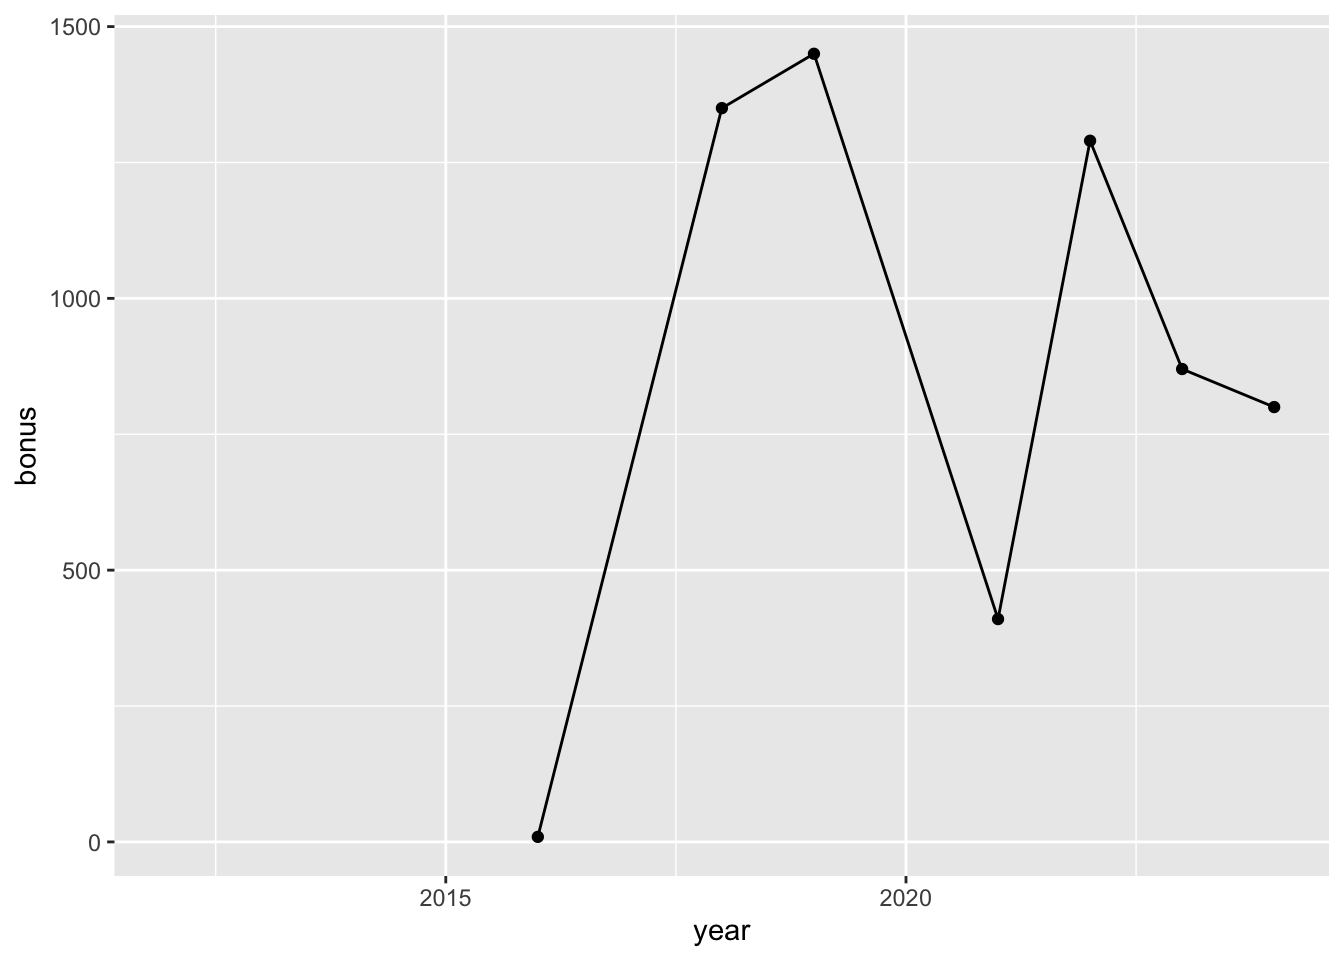
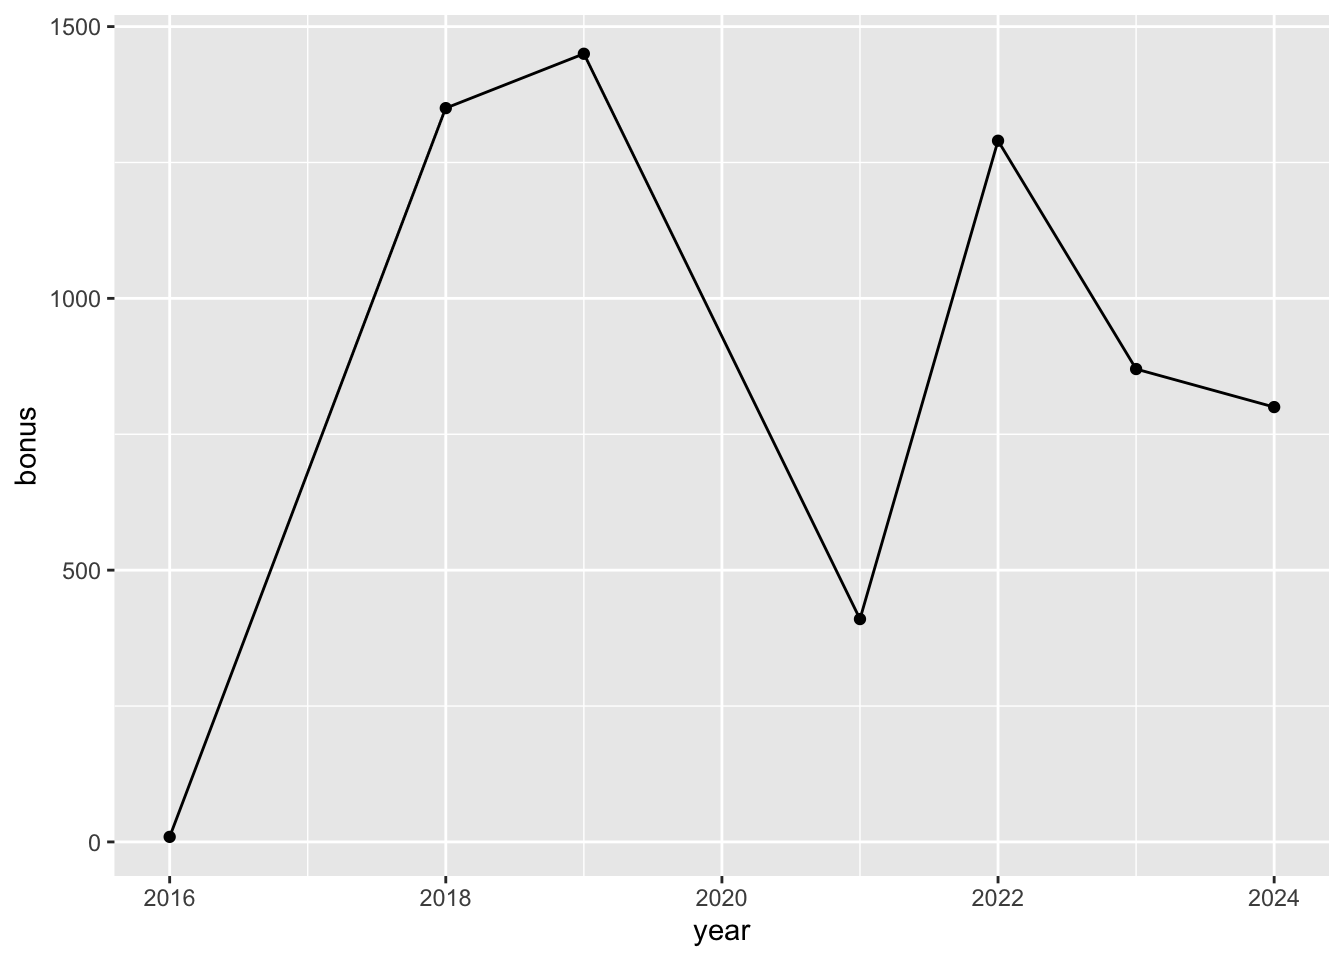
Fix bonus points figure.

diff --git a/docs/results.html b/docs/results.html
@@ -469,19 +469,12 @@ Figure&nbsp;3: Nittany ARC (W3YA) Field Day QSOs by mode 2022-24
 <details class="code-fold">
 <summary>Code</summary>
 <div class="sourceCode cell-code" id="cb9"><pre class="sourceCode r code-with-copy"><code class="sourceCode r"><span id="cb9-1"><a href="#cb9-1" aria-hidden="true" tabindex="-1"></a>w3ya <span class="sc">|&gt;</span></span>
-<span id="cb9-2"><a href="#cb9-2" aria-hidden="true" tabindex="-1"></a>  <span class="fu">ggplot</span>() <span class="sc">+</span></span>
-<span id="cb9-3"><a href="#cb9-3" aria-hidden="true" tabindex="-1"></a>  <span class="fu">aes</span>(<span class="at">x =</span> year, <span class="at">y =</span> bonus) <span class="sc">+</span></span>
-<span id="cb9-4"><a href="#cb9-4" aria-hidden="true" tabindex="-1"></a>  <span class="fu">geom_point</span>() <span class="sc">+</span></span>
-<span id="cb9-5"><a href="#cb9-5" aria-hidden="true" tabindex="-1"></a>  <span class="fu">geom_line</span>()</span></code><button title="Copy to Clipboard" class="code-copy-button"><i class="bi"></i></button></pre></div>
+<span id="cb9-2"><a href="#cb9-2" aria-hidden="true" tabindex="-1"></a>  dplyr<span class="sc">::</span><span class="fu">filter</span>(<span class="sc">!</span><span class="fu">is.na</span>(bonus)) <span class="sc">|&gt;</span></span>
+<span id="cb9-3"><a href="#cb9-3" aria-hidden="true" tabindex="-1"></a>  <span class="fu">ggplot</span>() <span class="sc">+</span></span>
+<span id="cb9-4"><a href="#cb9-4" aria-hidden="true" tabindex="-1"></a>  <span class="fu">aes</span>(<span class="at">x =</span> year, <span class="at">y =</span> bonus) <span class="sc">+</span></span>
+<span id="cb9-5"><a href="#cb9-5" aria-hidden="true" tabindex="-1"></a>  <span class="fu">geom_point</span>() <span class="sc">+</span></span>
+<span id="cb9-6"><a href="#cb9-6" aria-hidden="true" tabindex="-1"></a>  <span class="fu">geom_line</span>()</span></code><button title="Copy to Clipboard" class="code-copy-button"><i class="bi"></i></button></pre></div>
 </details>
-<div class="cell-output cell-output-stderr">
-<pre><code>Warning: Removed 4 rows containing missing values or values outside the scale range
-(`geom_point()`).</code></pre>
-</div>
-<div class="cell-output cell-output-stderr">
-<pre><code>Warning: Removed 4 rows containing missing values or values outside the scale range
-(`geom_line()`).</code></pre>
-</div>
 <div class="cell-output-display">
 <div id="fig-bonus-by-year" class="quarto-float quarto-figure quarto-figure-center anchored">
 <figure class="quarto-float quarto-float-fig figure">
@@ -498,13 +491,13 @@ Figure&nbsp;4: Nittany ARC (W3YA) Field Day bonus points 2021-24
 <div class="cell">
 <details class="code-fold">
 <summary>Code</summary>
-<div class="sourceCode cell-code" id="cb12"><pre class="sourceCode r code-with-copy"><code class="sourceCode r"><span id="cb12-1"><a href="#cb12-1" aria-hidden="true" tabindex="-1"></a>w3ya <span class="sc">|&gt;</span></span>
-<span id="cb12-2"><a href="#cb12-2" aria-hidden="true" tabindex="-1"></a>  dplyr<span class="sc">::</span><span class="fu">filter</span>(<span class="sc">!</span><span class="fu">is.na</span>(bonus)) <span class="sc">|&gt;</span></span>
-<span id="cb12-3"><a href="#cb12-3" aria-hidden="true" tabindex="-1"></a>  dplyr<span class="sc">::</span><span class="fu">mutate</span>(<span class="at">bonus_prop =</span> bonus<span class="sc">/</span>score) <span class="sc">|&gt;</span></span>
-<span id="cb12-4"><a href="#cb12-4" aria-hidden="true" tabindex="-1"></a>  <span class="fu">ggplot</span>() <span class="sc">+</span></span>
-<span id="cb12-5"><a href="#cb12-5" aria-hidden="true" tabindex="-1"></a>  <span class="fu">aes</span>(<span class="at">x =</span> year, <span class="at">y =</span> bonus_prop) <span class="sc">+</span></span>
-<span id="cb12-6"><a href="#cb12-6" aria-hidden="true" tabindex="-1"></a>  <span class="fu">geom_point</span>() <span class="sc">+</span></span>
-<span id="cb12-7"><a href="#cb12-7" aria-hidden="true" tabindex="-1"></a>  <span class="fu">geom_line</span>()</span></code><button title="Copy to Clipboard" class="code-copy-button"><i class="bi"></i></button></pre></div>
+<div class="sourceCode cell-code" id="cb10"><pre class="sourceCode r code-with-copy"><code class="sourceCode r"><span id="cb10-1"><a href="#cb10-1" aria-hidden="true" tabindex="-1"></a>w3ya <span class="sc">|&gt;</span></span>
+<span id="cb10-2"><a href="#cb10-2" aria-hidden="true" tabindex="-1"></a>  dplyr<span class="sc">::</span><span class="fu">filter</span>(<span class="sc">!</span><span class="fu">is.na</span>(bonus)) <span class="sc">|&gt;</span></span>
+<span id="cb10-3"><a href="#cb10-3" aria-hidden="true" tabindex="-1"></a>  dplyr<span class="sc">::</span><span class="fu">mutate</span>(<span class="at">bonus_prop =</span> bonus<span class="sc">/</span>score) <span class="sc">|&gt;</span></span>
+<span id="cb10-4"><a href="#cb10-4" aria-hidden="true" tabindex="-1"></a>  <span class="fu">ggplot</span>() <span class="sc">+</span></span>
+<span id="cb10-5"><a href="#cb10-5" aria-hidden="true" tabindex="-1"></a>  <span class="fu">aes</span>(<span class="at">x =</span> year, <span class="at">y =</span> bonus_prop) <span class="sc">+</span></span>
+<span id="cb10-6"><a href="#cb10-6" aria-hidden="true" tabindex="-1"></a>  <span class="fu">geom_point</span>() <span class="sc">+</span></span>
+<span id="cb10-7"><a href="#cb10-7" aria-hidden="true" tabindex="-1"></a>  <span class="fu">geom_line</span>()</span></code><button title="Copy to Clipboard" class="code-copy-button"><i class="bi"></i></button></pre></div>
 </details>
 <div class="cell-output-display">
 <div id="fig-bonus-proportion-by-year" class="quarto-float quarto-figure quarto-figure-center anchored">
@@ -525,13 +518,13 @@ Figure&nbsp;5: Nittany ARC (W3YA) Field Day bonus points as a proportion of tota
 <div class="cell">
 <details class="code-fold">
 <summary>Code</summary>
-<div class="sourceCode cell-code" id="cb13"><pre class="sourceCode r code-with-copy"><code class="sourceCode r"><span id="cb13-1"><a href="#cb13-1" aria-hidden="true" tabindex="-1"></a>w3ya <span class="sc">|&gt;</span></span>
-<span id="cb13-2"><a href="#cb13-2" aria-hidden="true" tabindex="-1"></a>  dplyr<span class="sc">::</span><span class="fu">filter</span>(<span class="sc">!</span><span class="fu">is.na</span>(n_xmtrs)) <span class="sc">|&gt;</span></span>
-<span id="cb13-3"><a href="#cb13-3" aria-hidden="true" tabindex="-1"></a>  <span class="fu">ggplot</span>() <span class="sc">+</span></span>
-<span id="cb13-4"><a href="#cb13-4" aria-hidden="true" tabindex="-1"></a>  <span class="fu">aes</span>(<span class="at">x =</span> year, <span class="at">y =</span> n_xmtrs) <span class="sc">+</span></span>
-<span id="cb13-5"><a href="#cb13-5" aria-hidden="true" tabindex="-1"></a>  <span class="fu">geom_point</span>() <span class="sc">+</span></span>
-<span id="cb13-6"><a href="#cb13-6" aria-hidden="true" tabindex="-1"></a>  <span class="fu">geom_line</span>() <span class="sc">+</span></span>
-<span id="cb13-7"><a href="#cb13-7" aria-hidden="true" tabindex="-1"></a>  <span class="fu">ylim</span>(<span class="dv">0</span>, <span class="dv">5</span>)</span></code><button title="Copy to Clipboard" class="code-copy-button"><i class="bi"></i></button></pre></div>
+<div class="sourceCode cell-code" id="cb11"><pre class="sourceCode r code-with-copy"><code class="sourceCode r"><span id="cb11-1"><a href="#cb11-1" aria-hidden="true" tabindex="-1"></a>w3ya <span class="sc">|&gt;</span></span>
+<span id="cb11-2"><a href="#cb11-2" aria-hidden="true" tabindex="-1"></a>  dplyr<span class="sc">::</span><span class="fu">filter</span>(<span class="sc">!</span><span class="fu">is.na</span>(n_xmtrs)) <span class="sc">|&gt;</span></span>
+<span id="cb11-3"><a href="#cb11-3" aria-hidden="true" tabindex="-1"></a>  <span class="fu">ggplot</span>() <span class="sc">+</span></span>
+<span id="cb11-4"><a href="#cb11-4" aria-hidden="true" tabindex="-1"></a>  <span class="fu">aes</span>(<span class="at">x =</span> year, <span class="at">y =</span> n_xmtrs) <span class="sc">+</span></span>
+<span id="cb11-5"><a href="#cb11-5" aria-hidden="true" tabindex="-1"></a>  <span class="fu">geom_point</span>() <span class="sc">+</span></span>
+<span id="cb11-6"><a href="#cb11-6" aria-hidden="true" tabindex="-1"></a>  <span class="fu">geom_line</span>() <span class="sc">+</span></span>
+<span id="cb11-7"><a href="#cb11-7" aria-hidden="true" tabindex="-1"></a>  <span class="fu">ylim</span>(<span class="dv">0</span>, <span class="dv">5</span>)</span></code><button title="Copy to Clipboard" class="code-copy-button"><i class="bi"></i></button></pre></div>
 </details>
 <div class="cell-output-display">
 <div id="fig-transmitters-by-year" class="quarto-float quarto-figure quarto-figure-center anchored">
@@ -552,12 +545,12 @@ Figure&nbsp;6: Nittany ARC (W3YA) Field Day transmitters 2016-24
 <div class="cell">
 <details class="code-fold">
 <summary>Code</summary>
-<div class="sourceCode cell-code" id="cb14"><pre class="sourceCode r code-with-copy"><code class="sourceCode r"><span id="cb14-1"><a href="#cb14-1" aria-hidden="true" tabindex="-1"></a>w3ya <span class="sc">|&gt;</span></span>
-<span id="cb14-2"><a href="#cb14-2" aria-hidden="true" tabindex="-1"></a>  dplyr<span class="sc">::</span><span class="fu">filter</span>(<span class="sc">!</span><span class="fu">is.na</span>(n_particip)) <span class="sc">|&gt;</span></span>
-<span id="cb14-3"><a href="#cb14-3" aria-hidden="true" tabindex="-1"></a>  <span class="fu">ggplot</span>() <span class="sc">+</span></span>
-<span id="cb14-4"><a href="#cb14-4" aria-hidden="true" tabindex="-1"></a>  <span class="fu">aes</span>(<span class="at">x =</span> year, <span class="at">y =</span> n_particip) <span class="sc">+</span></span>
-<span id="cb14-5"><a href="#cb14-5" aria-hidden="true" tabindex="-1"></a>  <span class="fu">geom_point</span>() <span class="sc">+</span></span>
-<span id="cb14-6"><a href="#cb14-6" aria-hidden="true" tabindex="-1"></a>  <span class="fu">geom_smooth</span>(<span class="at">se =</span> <span class="cn">FALSE</span>)</span></code><button title="Copy to Clipboard" class="code-copy-button"><i class="bi"></i></button></pre></div>
+<div class="sourceCode cell-code" id="cb12"><pre class="sourceCode r code-with-copy"><code class="sourceCode r"><span id="cb12-1"><a href="#cb12-1" aria-hidden="true" tabindex="-1"></a>w3ya <span class="sc">|&gt;</span></span>
+<span id="cb12-2"><a href="#cb12-2" aria-hidden="true" tabindex="-1"></a>  dplyr<span class="sc">::</span><span class="fu">filter</span>(<span class="sc">!</span><span class="fu">is.na</span>(n_particip)) <span class="sc">|&gt;</span></span>
+<span id="cb12-3"><a href="#cb12-3" aria-hidden="true" tabindex="-1"></a>  <span class="fu">ggplot</span>() <span class="sc">+</span></span>
+<span id="cb12-4"><a href="#cb12-4" aria-hidden="true" tabindex="-1"></a>  <span class="fu">aes</span>(<span class="at">x =</span> year, <span class="at">y =</span> n_particip) <span class="sc">+</span></span>
+<span id="cb12-5"><a href="#cb12-5" aria-hidden="true" tabindex="-1"></a>  <span class="fu">geom_point</span>() <span class="sc">+</span></span>
+<span id="cb12-6"><a href="#cb12-6" aria-hidden="true" tabindex="-1"></a>  <span class="fu">geom_smooth</span>(<span class="at">se =</span> <span class="cn">FALSE</span>)</span></code><button title="Copy to Clipboard" class="code-copy-button"><i class="bi"></i></button></pre></div>
 </details>
 <div class="cell-output cell-output-stderr">
 <pre><code>`geom_smooth()` using method = 'loess' and formula = 'y ~ x'</code></pre>
@@ -581,18 +574,18 @@ Figure&nbsp;7: Nittany ARC (W3YA) Field Day participants by year
 <div class="cell">
 <details class="code-fold">
 <summary>Code</summary>
-<div class="sourceCode cell-code" id="cb16"><pre class="sourceCode r code-with-copy"><code class="sourceCode r"><span id="cb16-1"><a href="#cb16-1" aria-hidden="true" tabindex="-1"></a><span class="fu">library</span>(readr)</span>
-<span id="cb16-2"><a href="#cb16-2" aria-hidden="true" tabindex="-1"></a>fd_data <span class="ot">&lt;-</span> readr<span class="sc">::</span><span class="fu">read_csv</span>(</span>
-<span id="cb16-3"><a href="#cb16-3" aria-hidden="true" tabindex="-1"></a>  <span class="st">"csv/narc-fd-2024-participation.csv"</span>,</span>
-<span id="cb16-4"><a href="#cb16-4" aria-hidden="true" tabindex="-1"></a>  <span class="at">show_col_types =</span> <span class="cn">FALSE</span>,</span>
-<span id="cb16-5"><a href="#cb16-5" aria-hidden="true" tabindex="-1"></a>  <span class="at">col_types =</span> <span class="fu">cols</span>(</span>
-<span id="cb16-6"><a href="#cb16-6" aria-hidden="true" tabindex="-1"></a>    <span class="at">callsign =</span> <span class="st">"c"</span>,</span>
-<span id="cb16-7"><a href="#cb16-7" aria-hidden="true" tabindex="-1"></a>    <span class="at">attended_sat =</span> <span class="st">"l"</span>,</span>
-<span id="cb16-8"><a href="#cb16-8" aria-hidden="true" tabindex="-1"></a>    <span class="at">attended_sun =</span> <span class="st">"l"</span>,</span>
-<span id="cb16-9"><a href="#cb16-9" aria-hidden="true" tabindex="-1"></a>    <span class="at">operated_fd =</span> <span class="st">"l"</span>,</span>
-<span id="cb16-10"><a href="#cb16-10" aria-hidden="true" tabindex="-1"></a>    <span class="at">helped_out =</span> <span class="st">"l"</span></span>
-<span id="cb16-11"><a href="#cb16-11" aria-hidden="true" tabindex="-1"></a>  )</span>
-<span id="cb16-12"><a href="#cb16-12" aria-hidden="true" tabindex="-1"></a>)</span></code><button title="Copy to Clipboard" class="code-copy-button"><i class="bi"></i></button></pre></div>
+<div class="sourceCode cell-code" id="cb14"><pre class="sourceCode r code-with-copy"><code class="sourceCode r"><span id="cb14-1"><a href="#cb14-1" aria-hidden="true" tabindex="-1"></a><span class="fu">library</span>(readr)</span>
+<span id="cb14-2"><a href="#cb14-2" aria-hidden="true" tabindex="-1"></a>fd_data <span class="ot">&lt;-</span> readr<span class="sc">::</span><span class="fu">read_csv</span>(</span>
+<span id="cb14-3"><a href="#cb14-3" aria-hidden="true" tabindex="-1"></a>  <span class="st">"csv/narc-fd-2024-participation.csv"</span>,</span>
+<span id="cb14-4"><a href="#cb14-4" aria-hidden="true" tabindex="-1"></a>  <span class="at">show_col_types =</span> <span class="cn">FALSE</span>,</span>
+<span id="cb14-5"><a href="#cb14-5" aria-hidden="true" tabindex="-1"></a>  <span class="at">col_types =</span> <span class="fu">cols</span>(</span>
+<span id="cb14-6"><a href="#cb14-6" aria-hidden="true" tabindex="-1"></a>    <span class="at">callsign =</span> <span class="st">"c"</span>,</span>
+<span id="cb14-7"><a href="#cb14-7" aria-hidden="true" tabindex="-1"></a>    <span class="at">attended_sat =</span> <span class="st">"l"</span>,</span>
+<span id="cb14-8"><a href="#cb14-8" aria-hidden="true" tabindex="-1"></a>    <span class="at">attended_sun =</span> <span class="st">"l"</span>,</span>
+<span id="cb14-9"><a href="#cb14-9" aria-hidden="true" tabindex="-1"></a>    <span class="at">operated_fd =</span> <span class="st">"l"</span>,</span>
+<span id="cb14-10"><a href="#cb14-10" aria-hidden="true" tabindex="-1"></a>    <span class="at">helped_out =</span> <span class="st">"l"</span></span>
+<span id="cb14-11"><a href="#cb14-11" aria-hidden="true" tabindex="-1"></a>  )</span>
+<span id="cb14-12"><a href="#cb14-12" aria-hidden="true" tabindex="-1"></a>)</span></code><button title="Copy to Clipboard" class="code-copy-button"><i class="bi"></i></button></pre></div>
 </details>
 <div class="cell-output cell-output-stderr">
 <pre><code>Warning: One or more parsing issues, call `problems()` on your data frame for details,
@@ -602,17 +595,17 @@ e.g.:
 </div>
 <details class="code-fold">
 <summary>Code</summary>
-<div class="sourceCode cell-code" id="cb18"><pre class="sourceCode r code-with-copy"><code class="sourceCode r"><span id="cb18-1"><a href="#cb18-1" aria-hidden="true" tabindex="-1"></a>fd_ops_guests_vols <span class="ot">&lt;-</span> fd_data <span class="sc">|&gt;</span></span>
-<span id="cb18-2"><a href="#cb18-2" aria-hidden="true" tabindex="-1"></a>  dplyr<span class="sc">::</span><span class="fu">select</span>(callsign, attended_sat, attended_sun, operated_fd, helped_out)</span></code><button title="Copy to Clipboard" class="code-copy-button"><i class="bi"></i></button></pre></div>
+<div class="sourceCode cell-code" id="cb16"><pre class="sourceCode r code-with-copy"><code class="sourceCode r"><span id="cb16-1"><a href="#cb16-1" aria-hidden="true" tabindex="-1"></a>fd_ops_guests_vols <span class="ot">&lt;-</span> fd_data <span class="sc">|&gt;</span></span>
+<span id="cb16-2"><a href="#cb16-2" aria-hidden="true" tabindex="-1"></a>  dplyr<span class="sc">::</span><span class="fu">select</span>(callsign, attended_sat, attended_sun, operated_fd, helped_out)</span></code><button title="Copy to Clipboard" class="code-copy-button"><i class="bi"></i></button></pre></div>
 </details>
 </div>
 <div class="cell">
 <details class="code-fold">
 <summary>Code</summary>
-<div class="sourceCode cell-code" id="cb19"><pre class="sourceCode r code-with-copy"><code class="sourceCode r"><span id="cb19-1"><a href="#cb19-1" aria-hidden="true" tabindex="-1"></a>fd_attended <span class="ot">&lt;-</span> fd_ops_guests_vols <span class="sc">|&gt;</span></span>
-<span id="cb19-2"><a href="#cb19-2" aria-hidden="true" tabindex="-1"></a>  dplyr<span class="sc">::</span><span class="fu">mutate</span>(<span class="at">attended =</span> attended_sat <span class="sc">|</span> attended_sun)</span>
-<span id="cb19-3"><a href="#cb19-3" aria-hidden="true" tabindex="-1"></a></span>
-<span id="cb19-4"><a href="#cb19-4" aria-hidden="true" tabindex="-1"></a><span class="fu">xtabs</span>(<span class="sc">~</span> attended, fd_attended)</span></code><button title="Copy to Clipboard" class="code-copy-button"><i class="bi"></i></button></pre></div>
+<div class="sourceCode cell-code" id="cb17"><pre class="sourceCode r code-with-copy"><code class="sourceCode r"><span id="cb17-1"><a href="#cb17-1" aria-hidden="true" tabindex="-1"></a>fd_attended <span class="ot">&lt;-</span> fd_ops_guests_vols <span class="sc">|&gt;</span></span>
+<span id="cb17-2"><a href="#cb17-2" aria-hidden="true" tabindex="-1"></a>  dplyr<span class="sc">::</span><span class="fu">mutate</span>(<span class="at">attended =</span> attended_sat <span class="sc">|</span> attended_sun)</span>
+<span id="cb17-3"><a href="#cb17-3" aria-hidden="true" tabindex="-1"></a></span>
+<span id="cb17-4"><a href="#cb17-4" aria-hidden="true" tabindex="-1"></a><span class="fu">xtabs</span>(<span class="sc">~</span> attended, fd_attended)</span></code><button title="Copy to Clipboard" class="code-copy-button"><i class="bi"></i></button></pre></div>
 </details>
 <div class="cell-output cell-output-stdout">
 <pre><code>attended
@@ -623,7 +616,7 @@ FALSE  TRUE
 <div class="cell">
 <details class="code-fold">
 <summary>Code</summary>
-<div class="sourceCode cell-code" id="cb21"><pre class="sourceCode r code-with-copy"><code class="sourceCode r"><span id="cb21-1"><a href="#cb21-1" aria-hidden="true" tabindex="-1"></a><span class="fu">xtabs</span>(<span class="sc">~</span> attended_sat, fd_ops_guests_vols)</span></code><button title="Copy to Clipboard" class="code-copy-button"><i class="bi"></i></button></pre></div>
+<div class="sourceCode cell-code" id="cb19"><pre class="sourceCode r code-with-copy"><code class="sourceCode r"><span id="cb19-1"><a href="#cb19-1" aria-hidden="true" tabindex="-1"></a><span class="fu">xtabs</span>(<span class="sc">~</span> attended_sat, fd_ops_guests_vols)</span></code><button title="Copy to Clipboard" class="code-copy-button"><i class="bi"></i></button></pre></div>
 </details>
 <div class="cell-output cell-output-stdout">
 <pre><code>attended_sat
@@ -634,7 +627,7 @@ FALSE  TRUE
 <div class="cell">
 <details class="code-fold">
 <summary>Code</summary>
-<div class="sourceCode cell-code" id="cb23"><pre class="sourceCode r code-with-copy"><code class="sourceCode r"><span id="cb23-1"><a href="#cb23-1" aria-hidden="true" tabindex="-1"></a><span class="fu">xtabs</span>(<span class="sc">~</span> attended_sun, fd_ops_guests_vols)</span></code><button title="Copy to Clipboard" class="code-copy-button"><i class="bi"></i></button></pre></div>
+<div class="sourceCode cell-code" id="cb21"><pre class="sourceCode r code-with-copy"><code class="sourceCode r"><span id="cb21-1"><a href="#cb21-1" aria-hidden="true" tabindex="-1"></a><span class="fu">xtabs</span>(<span class="sc">~</span> attended_sun, fd_ops_guests_vols)</span></code><button title="Copy to Clipboard" class="code-copy-button"><i class="bi"></i></button></pre></div>
 </details>
 <div class="cell-output cell-output-stdout">
 <pre><code>attended_sun
@@ -645,7 +638,7 @@ FALSE  TRUE
 <div class="cell">
 <details class="code-fold">
 <summary>Code</summary>
-<div class="sourceCode cell-code" id="cb25"><pre class="sourceCode r code-with-copy"><code class="sourceCode r"><span id="cb25-1"><a href="#cb25-1" aria-hidden="true" tabindex="-1"></a><span class="fu">xtabs</span>(<span class="sc">~</span> operated_fd, fd_ops_guests_vols)</span></code><button title="Copy to Clipboard" class="code-copy-button"><i class="bi"></i></button></pre></div>
+<div class="sourceCode cell-code" id="cb23"><pre class="sourceCode r code-with-copy"><code class="sourceCode r"><span id="cb23-1"><a href="#cb23-1" aria-hidden="true" tabindex="-1"></a><span class="fu">xtabs</span>(<span class="sc">~</span> operated_fd, fd_ops_guests_vols)</span></code><button title="Copy to Clipboard" class="code-copy-button"><i class="bi"></i></button></pre></div>
 </details>
 <div class="cell-output cell-output-stdout">
 <pre><code>operated_fd
@@ -656,7 +649,7 @@ FALSE  TRUE
 <div class="cell">
 <details class="code-fold">
 <summary>Code</summary>
-<div class="sourceCode cell-code" id="cb27"><pre class="sourceCode r code-with-copy"><code class="sourceCode r"><span id="cb27-1"><a href="#cb27-1" aria-hidden="true" tabindex="-1"></a><span class="fu">xtabs</span>(<span class="sc">~</span> helped_out, fd_ops_guests_vols)</span></code><button title="Copy to Clipboard" class="code-copy-button"><i class="bi"></i></button></pre></div>
+<div class="sourceCode cell-code" id="cb25"><pre class="sourceCode r code-with-copy"><code class="sourceCode r"><span id="cb25-1"><a href="#cb25-1" aria-hidden="true" tabindex="-1"></a><span class="fu">xtabs</span>(<span class="sc">~</span> helped_out, fd_ops_guests_vols)</span></code><button title="Copy to Clipboard" class="code-copy-button"><i class="bi"></i></button></pre></div>
 </details>
 <div class="cell-output cell-output-stdout">
 <pre><code>helped_out
